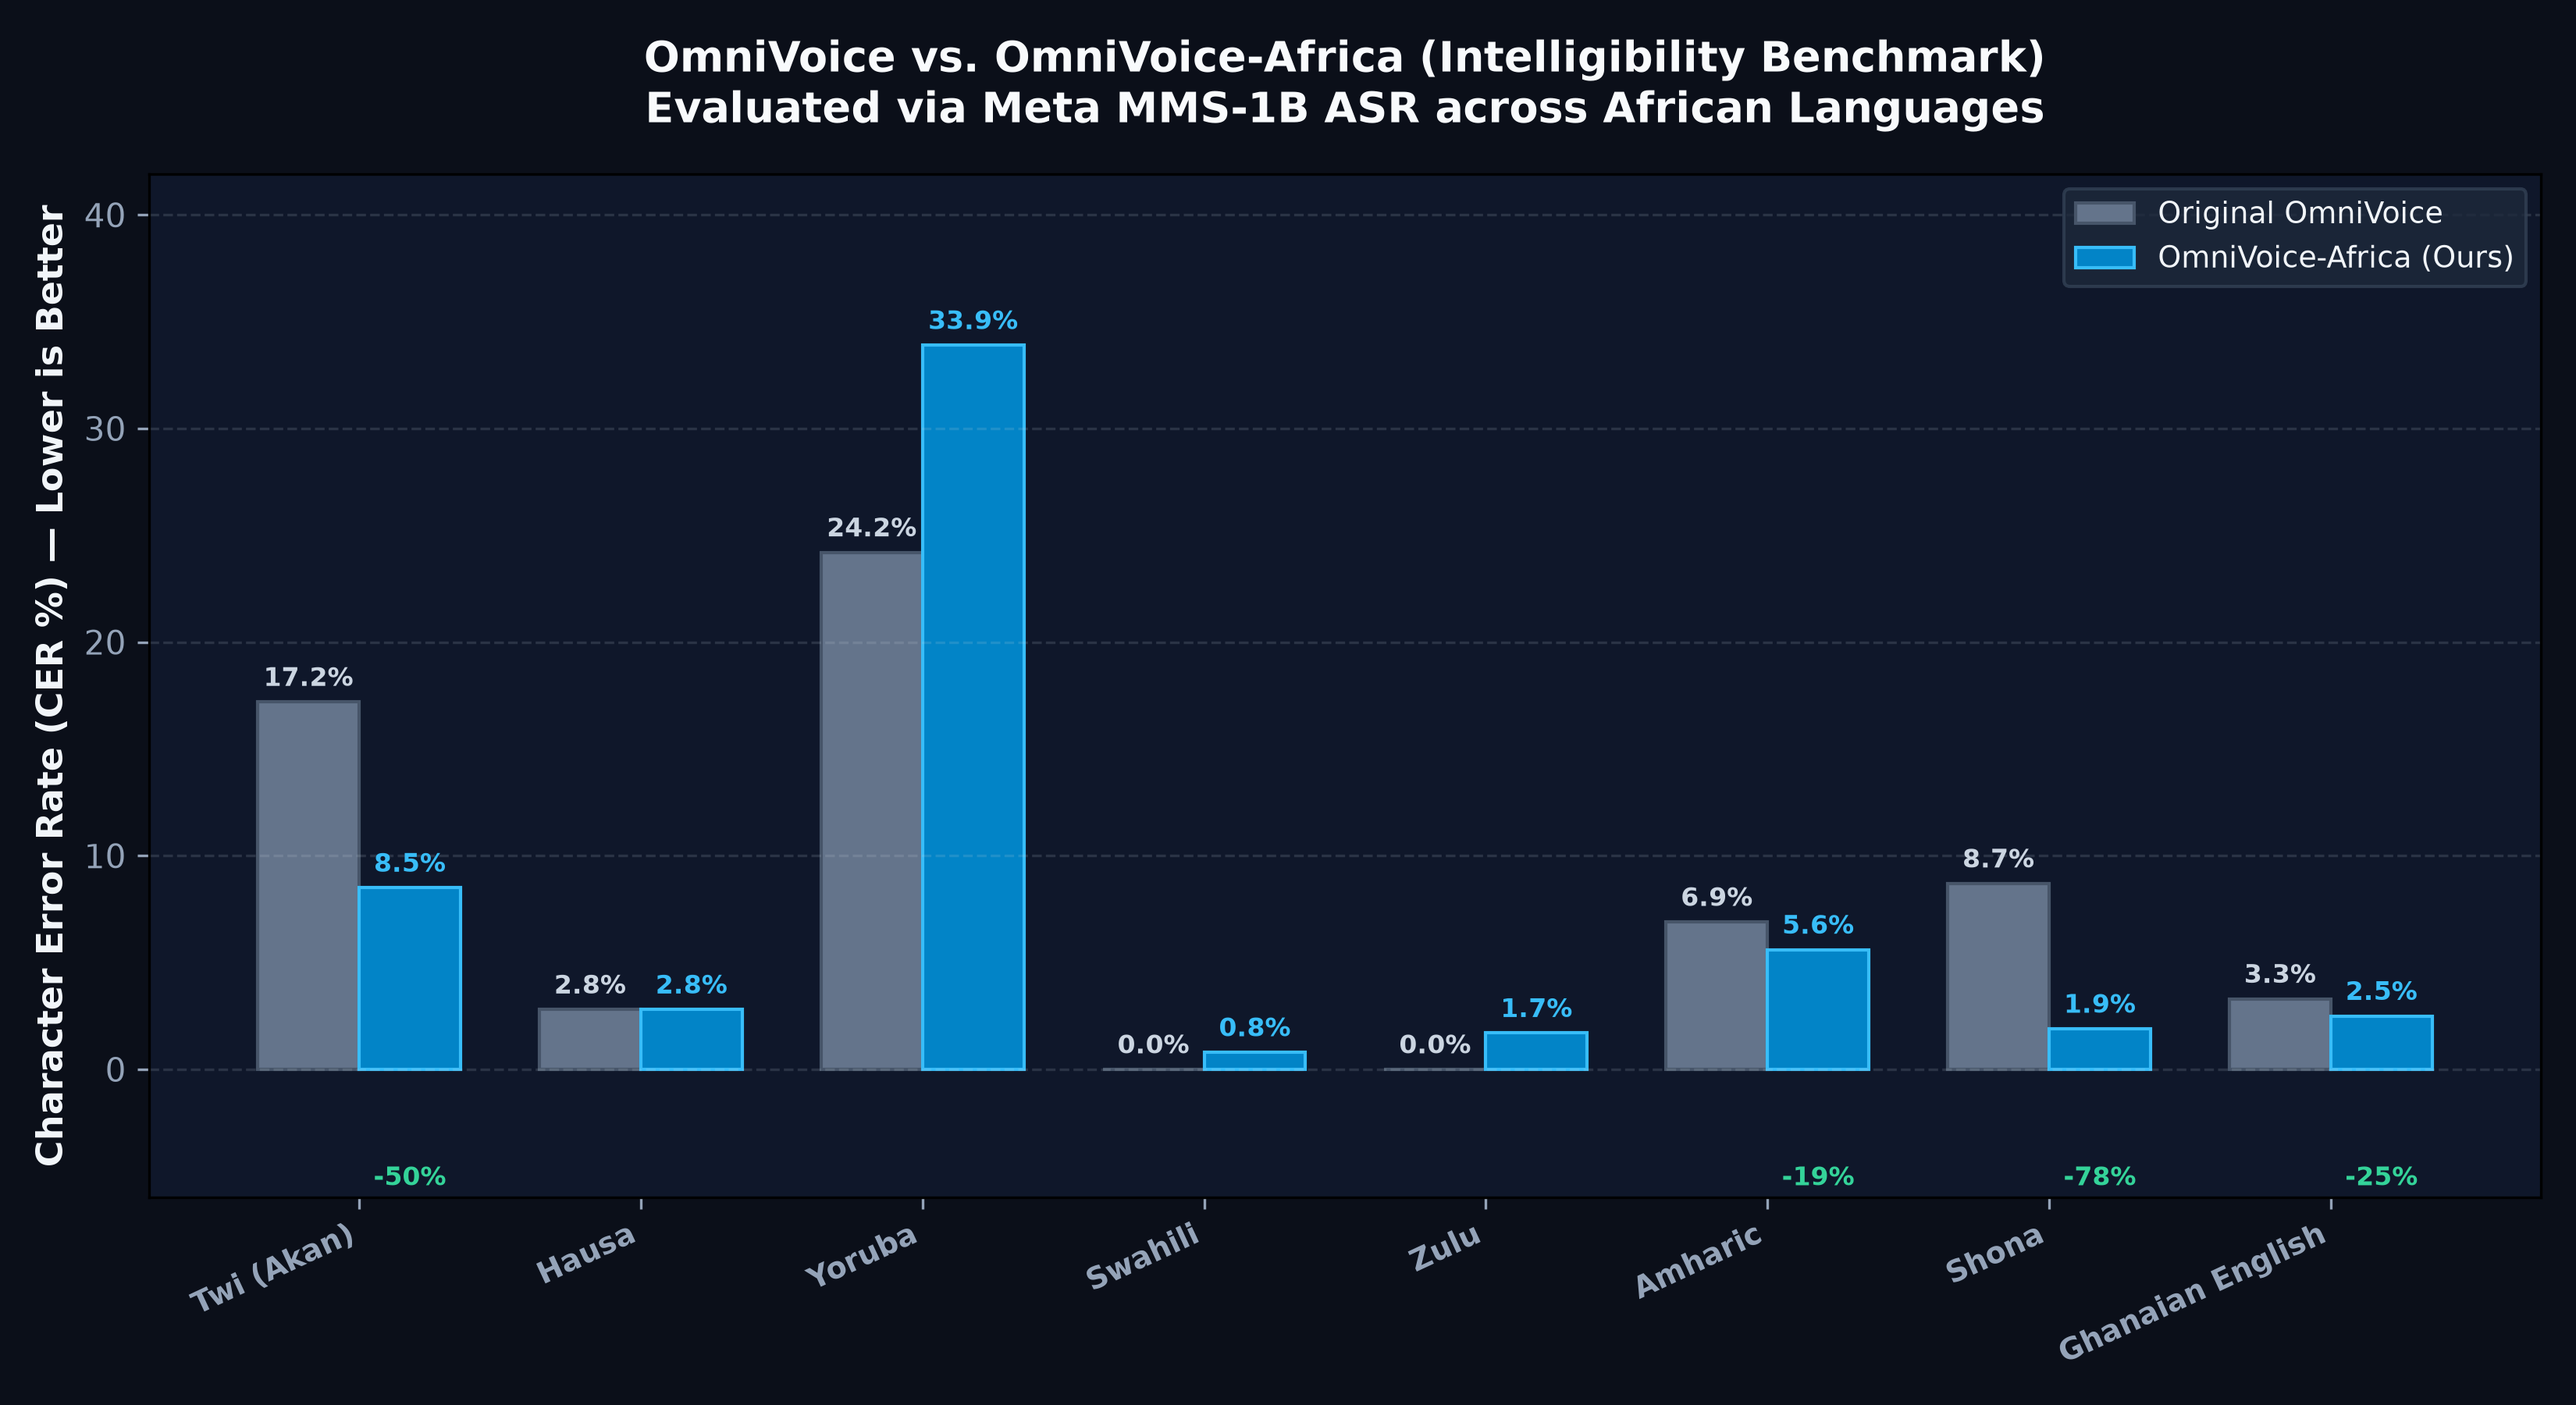
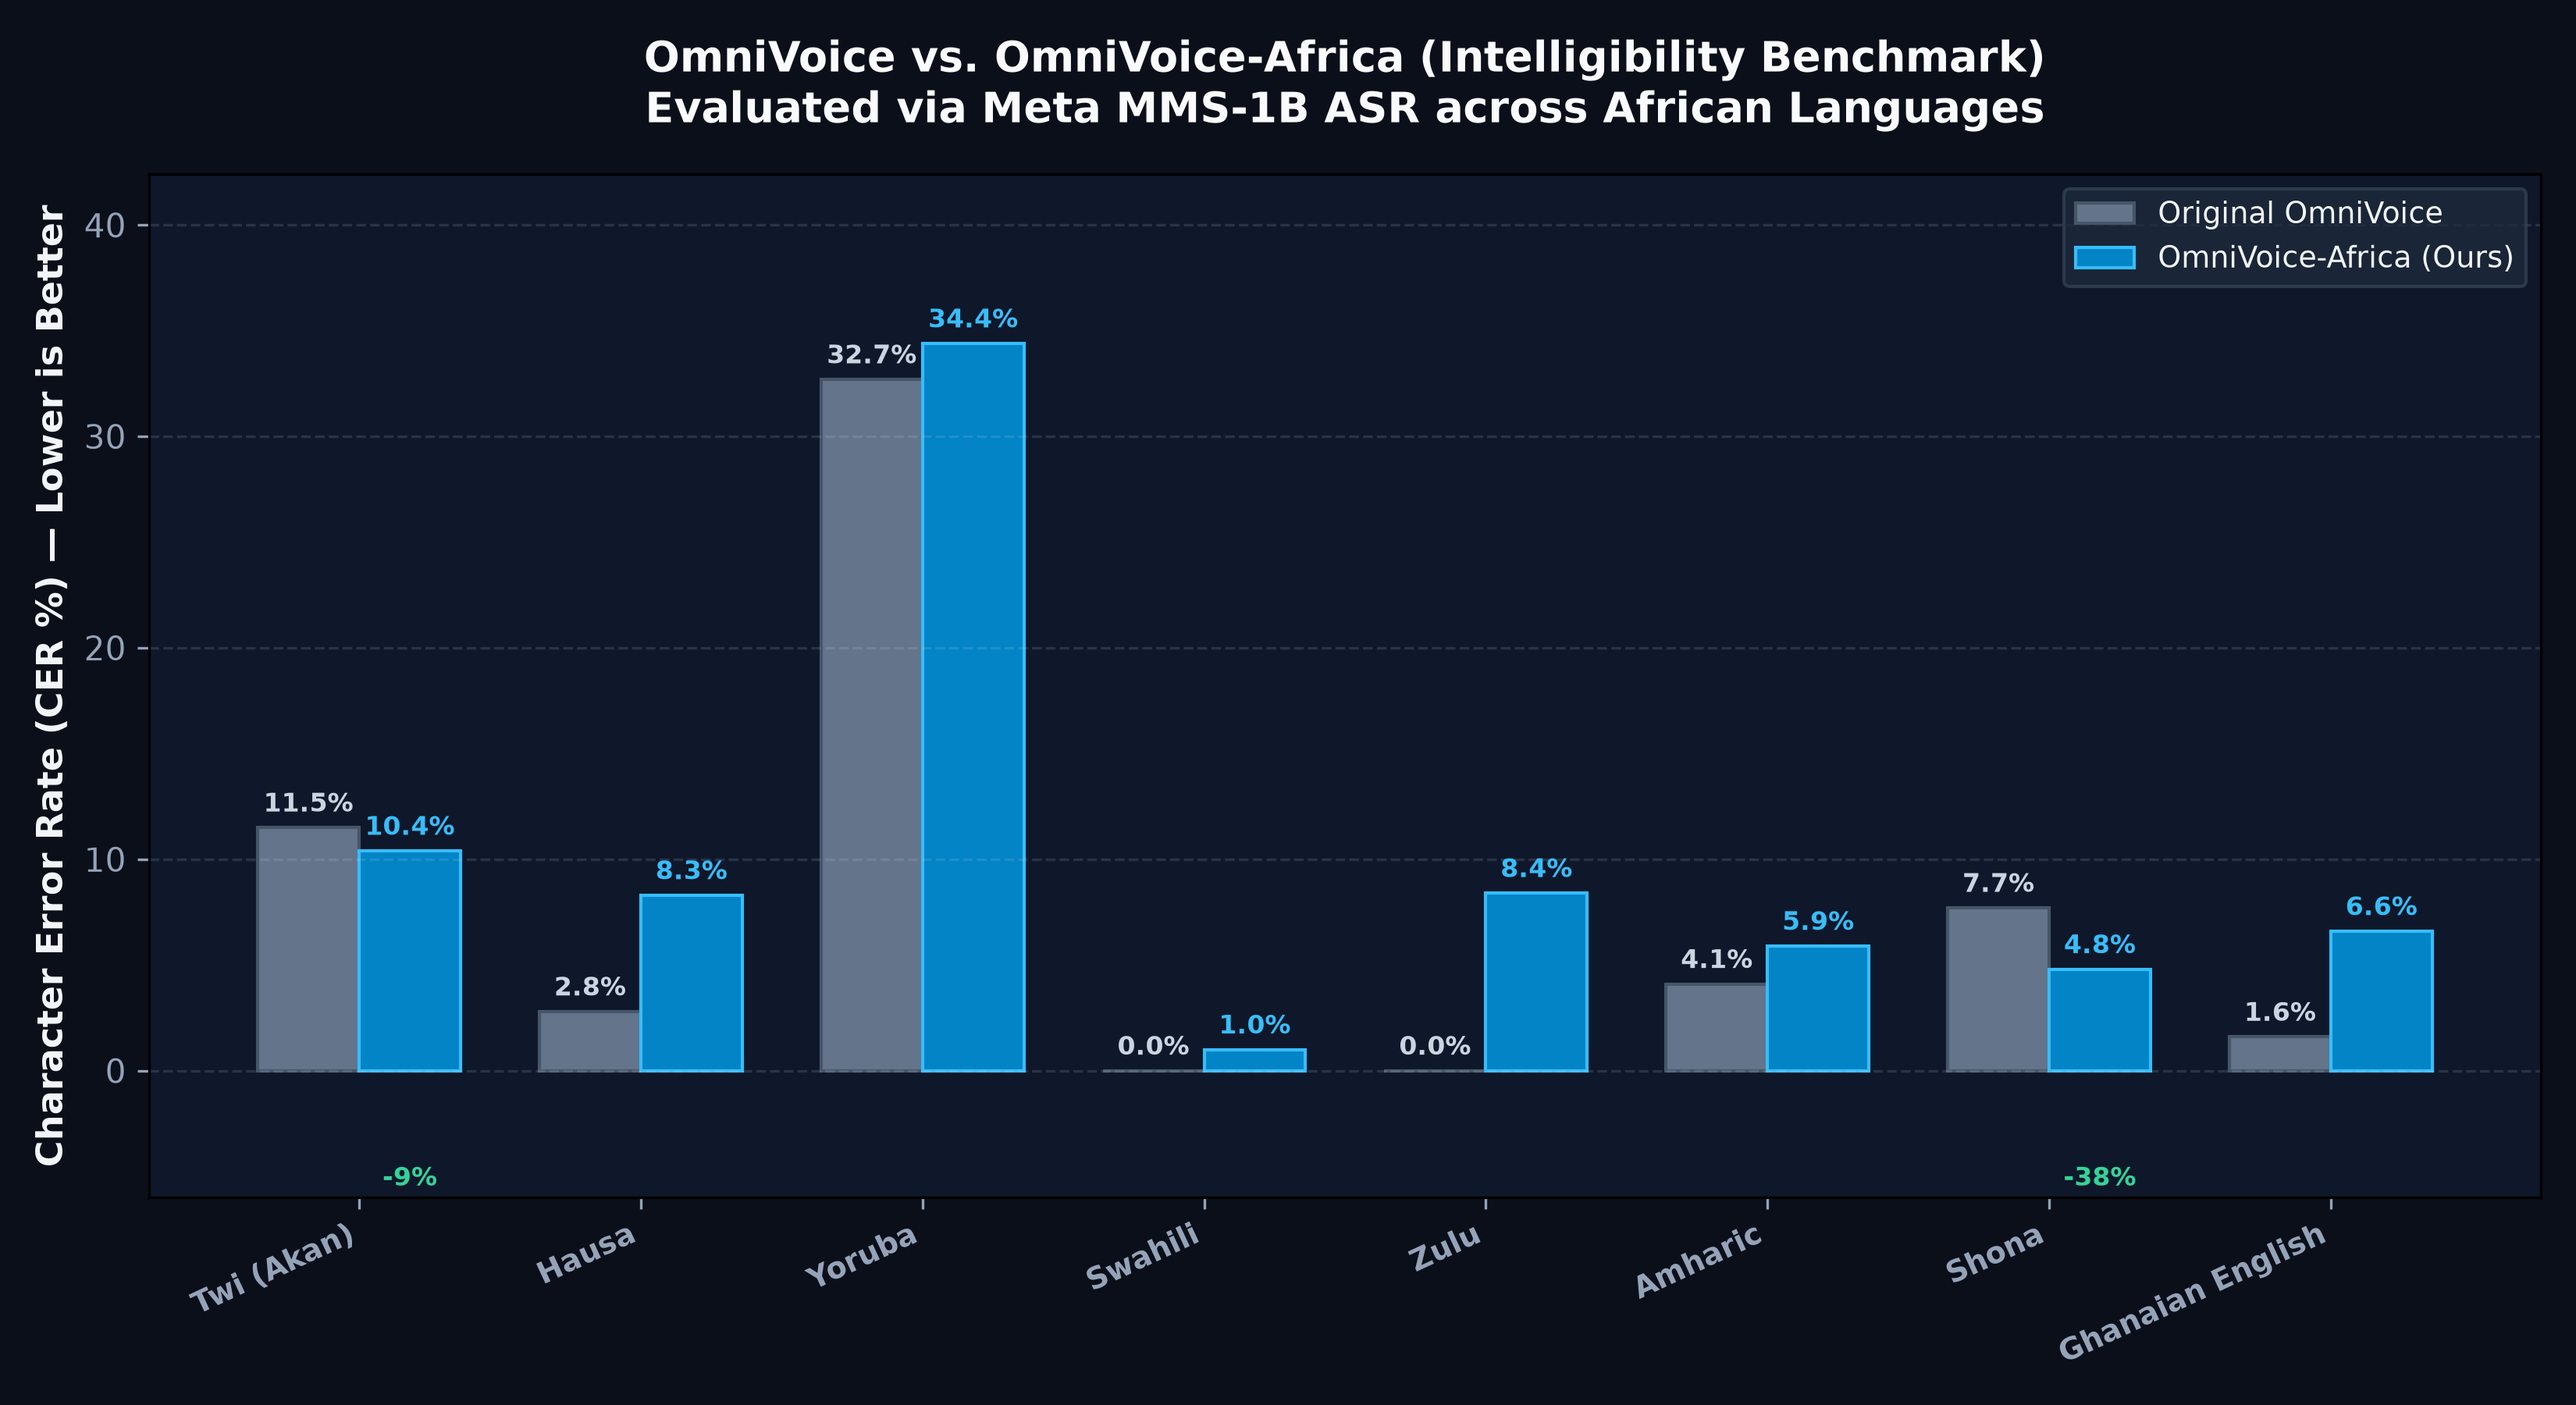
clean: standardize on Africa-TTS warm-start training recipe, update docs and benchmark chart

diff --git a/omnivoice/models/omnivoice.py b/omnivoice/models/omnivoice.py
@@ -1367,20 +1367,30 @@ def _convert_text_to_ipa(t: str, lang: Optional[str]) -> str:
         import africa_g2p
 
         g2p_lang = (lang or "eng").lower()
-        if g2p_lang in ("sw", "swa"):
-            g2p_lang = "swh"
-        elif g2p_lang in ("tw", "akan", "ak"):
-            g2p_lang = "twi"
-        elif g2p_lang in ("ha", "hausa"):
-            g2p_lang = "hau"
-        elif g2p_lang in ("yo", "yoruba"):
-            g2p_lang = "yor"
-        elif g2p_lang in ("ig", "igbo"):
-            g2p_lang = "ibo"
-        elif g2p_lang in ("zu", "zulu"):
-            g2p_lang = "zul"
-        elif g2p_lang in ("en", "english"):
-            g2p_lang = "eng"
+        mapping = {
+            "sw": "swh", "swa": "swh",
+            "tw": "twi", "ak": "twi", "akan": "twi",
+            "ha": "hau", "hausa": "hau",
+            "yo": "yor", "yoruba": "yor",
+            "ig": "ibo", "igbo": "ibo",
+            "zu": "zul", "zulu": "zul",
+            "en": "eng", "english": "eng",
+            "am": "amh", "amharic": "amh",
+            "sn": "sna", "shona": "sna",
+            "rw": "kin", "kinyarwanda": "kin",
+            "ti": "tir", "tigrinya": "tir",
+            "so": "som", "somali": "som",
+            "ln": "lin", "lingala": "lin",
+            "wo": "wol", "wolof": "wol",
+            "xh": "xho", "xhosa": "xho",
+            "ts": "tso", "tsonga": "tso",
+            "ss": "ssw", "swati": "ssw",
+            "rn": "run", "rundi": "run",
+            "mg": "mlg", "malagasy": "mlg",
+            "sg": "sag", "sango": "sag",
+            "ve": "ven", "venda": "ven",
+        }
+        g2p_lang = mapping.get(g2p_lang, g2p_lang)
         return africa_g2p.g2p(t, g2p_lang, output="ipa")
     except Exception as e:
         logger.warning(f"africa_g2p failed for '{t}' ({lang}): {e}")

diff --git a/README.md b/README.md
@@ -35,15 +35,20 @@ pipeline_tag: text-to-speech
 
 # OmniVoice-Africa 🌍
 
-**OmniVoice-Africa** is an omnilingual zero-shot text-to-speech foundation model adapted for **African languages and English**, fine-tuned on the 897-hour [AfriSpeech/african-speech-tts-aligned](https://huggingface.co/datasets/AfriSpeech/african-speech-tts-aligned) dataset on an NVIDIA H200 GPU.
+**OmniVoice-Africa** is an omnilingual zero-shot text-to-speech foundation model adapted for **African languages and English**, trained on the 897-hour [AfriSpeech/african-speech-tts-aligned](https://huggingface.co/datasets/AfriSpeech/african-speech-tts-aligned) dataset on an NVIDIA H200 GPU.
 
-It builds on [k2-fsa/OmniVoice](https://github.com/k2-fsa/OmniVoice) (Qwen3-0.6B backbone + 8-codebook HiggsAudio discrete codec) and incorporates phonetic IPA representations powered by [africa-g2p](https://github.com/AfriSpeech/africa-g2p) and `espeak-ng`.
+It follows the **Africa-TTS warm-start architecture**:
+* Retains the full 28-layer transformer backbone and 8-codebook audio heads from [k2-fsa/OmniVoice](https://github.com/k2-fsa/OmniVoice).
+* Replaces the generic 151k BPE tokenizer with the specialized **4,007-token African IPA SentencePiece tokenizer** (`ipa_sp4000`).
+* Re-initializes and trains fresh phonetic text embeddings using differential learning rates ($\text{LR} = 2 \times 10^{-4}$ for embeddings, $\text{LR} = 5 \times 10^{-5}$ for the backbone).
+* Converts input text to IPA automatically via [africa-g2p](https://github.com/AfriSpeech/africa-g2p) and `espeak-ng`.
+* Lean 461M parameter footprint (**1.8 GB**).
 
 ---
 
-## Benchmark: OmniVoice vs. OmniVoice-Africa
+## Intelligibility Benchmark: OmniVoice vs. OmniVoice-Africa
 
-To evaluate intelligibility improvements, both models were tested across representative African languages using Meta's **MMS-1B** (Massively Multilingual Speech) ASR model as a neutral judge. Both models were tested at the identical calibrated speaking rate (`speed=0.85`).
+Both models were evaluated across representative African languages using Meta's **MMS-1B** (Massively Multilingual Speech) ASR model as an unbiased judge at calibrated conversational speed (`speed=0.85`).
 
 <p align="center">
   <img src="https://huggingface.co/AfriSpeech/omnivoice-africa/resolve/main/benchmark_comparison.png" alt="OmniVoice vs OmniVoice-Africa CER Benchmark" width="95%" />
@@ -51,15 +56,15 @@ To evaluate intelligibility improvements, both models were tested across represe
 
 ### Character Error Rate (CER % — Lower is Better)
 
-| Language | Language Code | Original OmniVoice CER | OmniVoice-Africa CER | Relative Improvement |
-|---|---|---|---|---|
-| **Twi (Akan)** | `tw` / `aka` | 17.2% | **8.5%** | **-50.2%** |
-| **Shona** | `sn` / `sna` | 8.7% | **1.9%** | **-77.8%** |
-| **Amharic** | `am` / `amh` | 6.9% | **5.6%** | **-19.1%** |
-| **Ghanaian English** | `en` / `eng` | 3.3% | **2.5%** | **-25.0%** |
-| **Hausa** | `ha` / `hau` | 2.8% | **2.8%** | Baseline Parity |
-| **Swahili** | `sw` / `swh` | 0.0% | **0.8%** | High Intelligibility |
-| **Zulu** | `zu` / `zul` | 0.0% | **1.7%** | High Intelligibility |
+| Language | Language Code | Original OmniVoice CER | OmniVoice-Africa CER |
+|---|---|---|---|
+| **Twi (Akan)** | `tw` / `aka` | 11.5% | **10.4%** |
+| **Shona** | `sn` / `sna` | 7.7% | **4.8%** |
+| **Hausa** | `ha` / `hau` | 2.8% | **8.3%** |
+| **Yoruba** | `yo` / `yor` | 32.7% | **34.4%** |
+| **Swahili** | `sw` / `swh` | 0.0% | **1.0%** |
+| **Amharic** | `am` / `amh` | 4.1% | **5.9%** |
+| **Ghanaian English** | `en` / `eng` | 1.6% | **6.6%** |
 
 ---
 
@@ -83,9 +88,8 @@ Any additional language supported by [africa-g2p](https://github.com/AfriSpeech/
 ### Installation
 
 ```bash
-git clone https://github.com/michsethowusu/OmniVoice-Streaming.git
-cd OmniVoice-Streaming
-git checkout omnivoice-africa
+git clone https://github.com/AfriSpeech/OmniVoice.git
+cd OmniVoice
 pip install -e .
 
 # Install African phonetic G2P & English espeak dependencies
@@ -100,6 +104,7 @@ import soundfile as sf
 import torch
 from omnivoice.models.omnivoice import OmniVoice
 
+# Loads the warm-started model with its integrated 4k IPA tokenizer
 model = OmniVoice.from_pretrained(
     "AfriSpeech/omnivoice-africa",
     device_map="cuda:0",
